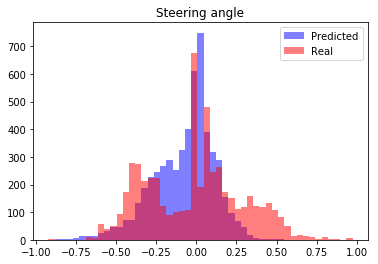
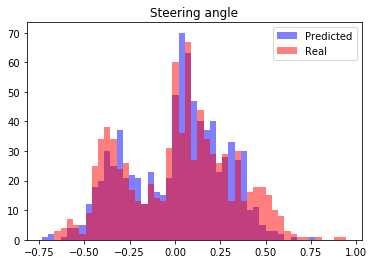
modified evaluation, added safety feature to train_val_split function

diff --git a/Code/model_eval.py b/Code/model_eval.py
@@ -135,11 +135,11 @@ def _main():
             )
     
     
-    model = utilities.jsonToModel('C:/Users/user/Desktop/BA/BA/ba-cnn-steering/model_DroNet/model_struct.json')
+    model = utilities.jsonToModel('C:/Users/user/Desktop/BA/BA/ba-cnn-steering/model_Carolo/model_struct.json')
     
     
     try:
-        model.load_weights('C:/Users/user/Desktop/BA/BA/ba-cnn-steering/model_DroNet/best_weights.h5')
+        model.load_weights('C:/Users/user/Desktop/BA/BA/ba-cnn-steering/model_Test/weights_197.h5')
         #print("Loaded model from {}".format(weights_load_path))
     except:
         print("Impossible to find weight path. Returning untrained model")
@@ -160,33 +160,29 @@ def _main():
     real_steerings = []
     predicted_steerings = []
     
-    
-    
-#    DroNet yields negative values for right turn and positive for left turn.
-#    For Carolo its the other way round.
-#    So Carolo Values have to be adjusted for that.
+    #Left/Right shift for Positive/Neagtive Values done while loading the images
     for data in ground_truth:
-        real_steerings.append(utilities.switch_sign(data[0]))
-    for i,data in enumerate(predictions):
-        predicted_steerings.append(data[0])
-        pred_truth_compare.append("%s|||%s" % (data[0],real_steerings[i]))
+        real_steerings.append(data[0])
+    #for i,data in enumerate(predictions):
+    #    predicted_steerings.append(data[0])
+     #   pred_truth_compare.append("%s|||%s" % (data[0],real_steerings[i]))
         
         
     joined = "\n".join(pred_truth_compare)
     #print(AlleTupel)
     
-    plot_evaluation.make_and_save_histograms(predicted_steerings,real_steerings)
+    plot_evaluation.make_and_save_histograms(predictions,real_steerings)
     
-    f = open("C:/Users/user/Desktop/BA/BA/test_compare.txt", "w")
-    f.write(joined)
-    f.close() 
+    #f = open("C:/Users/user/Desktop/BA/BA/test_compare.txt", "w")
+    #f.write(joined)
+    #f.close() 
 
     
     ###########################################################################
 
     # ************************* Steering evaluation ***************************
 
-    predicted_steerings = np.asarray(predicted_steerings, dtype=np.float32)
+    predicted_steerings = np.asarray(predictions, dtype=np.float32)
     real_steerings = np.asarray(real_steerings, dtype=np.float32)
 
 

diff --git a/Code/preprocessing/flip_images.py b/Code/preprocessing/flip_images.py
@@ -72,10 +72,18 @@ def plot_steering_angle_distribution(steering_file, sample_count):
     sns.distplot(steering_values,kde=False) 
 
 
-def super_dirty_val_train_split(image_path,copy_path,sample_count):
+def val_train_split(image_path,copy_path,sample_count):
     """
     This will be deleted as sone as it has done what it should.
     """
+    print("!WARNING!", "This will delete images from ", image_path, "!")
+    check = input("If you are sure about this, type 'yes' and press Enter.\ny")
+    if(check != "yes"):
+        print("Stopped!")
+        return
+    elif(check == "yes"):
+        print("Alright.")
+    
     images = os.listdir(image_path)
     
     validation_ratio = 0.2
@@ -85,7 +93,7 @@ def super_dirty_val_train_split(image_path,copy_path,sample_count):
     
     s = set()
     
-    n = validation_count +100
+    n = validation_count 
     
     while n>0:
         s.add(random.randrange(0,sample_count))
@@ -96,7 +104,6 @@ def super_dirty_val_train_split(image_path,copy_path,sample_count):
     print(len(l))
     list_index = 0
     for i,image in enumerate(images):
-        
         #print("for-index:",i," list-index:",list_index," list-value:",l[list_index])
         if i==l[list_index]:
             im_data = cv2.imread(os.path.join(image_path,image),0)
@@ -123,7 +130,7 @@ def main():
     #plot_steering_angle_distribution(os.path.join(steering_file,'steering_labels.txt'),6000)
     #flip_images(image_files,None)
     
-    super_dirty_val_train_split('../../../testData/caroloFullHistEqu','../../../testData/caroloFullHistEquVal',5829)
+    val_train_split('../../../caroloExperiment/images','../../../caroloExperiment/RANDOM',5391)
     
     
 

diff --git a/Code/carolo_cnn.py b/Code/carolo_cnn.py
@@ -13,7 +13,7 @@ import os
 from keras.callbacks import ModelCheckpoint
 from keras import optimizers
 
-from Code import utilities, constants,adapted_dronet_model,custom_callback
+from Code import utilities, constants,adapted_dronet_model,custom_callback,plot_evaluation
 
 from tensorflow.python.client import device_lib
 
@@ -93,7 +93,7 @@ def trainModel(train_data_generator, val_data_generator, model, initial_epoch):
     # Save model every 'log_rate' epochs.
     # Save training and validation losses.
     
-    #logz.configure_output_dir(constants.EXPERIMENT_DIRECTORY)
+   
     saveModelAndLoss = custom_callback.MyCallback(filepath=constants.EXPERIMENT_DIRECTORY,
                                             period=10,
                                             batch_size=constants.BATCH_SIZE)
@@ -102,13 +102,16 @@ def trainModel(train_data_generator, val_data_generator, model, initial_epoch):
     steps_per_epoch = int(np.ceil(train_data_generator.samples / constants.BATCH_SIZE))
     validation_steps = int(np.ceil(val_data_generator.samples / constants.BATCH_SIZE))
 
-    model.fit_generator(train_data_generator,
+    history = model.fit_generator(train_data_generator,
                         epochs=constants.EPOCHS150, steps_per_epoch = steps_per_epoch,
                         callbacks=[writeBestModel,saveModelAndLoss],
                         validation_data=val_data_generator,
                         validation_steps = validation_steps,
                         initial_epoch=initial_epoch)
     
+    print(history.history.keys())
+    plot_evaluation.plot_session_loss(history)
+    plot_evaluation.plot_session_accuracy(history)
 
     
 def main():

diff --git a/Code/plot_evaluation.py b/Code/plot_evaluation.py
@@ -32,4 +32,21 @@ def make_and_save_histograms(pred_steerings, real_steerings,
     plt.legend(fontsize=10)
     plt.savefig(img_name, bbox_inches='tight')
     
+
+def plot_session_loss(history):
+    plt.plot(history.history['loss'])
+    plt.plot(history.history['val_loss'])
+    plt.title('model loss')
+    plt.ylabel('loss')
+    plt.xlabel('epoch')
+    plt.legend(['train', 'test'], loc='upper left')
+    plt.show()
     
+def plot_session_accuracy(history):
+    plt.plot(history.history['acc'])
+    plt.plot(history.history['val_acc'])
+    plt.title('model accuracy')
+    plt.ylabel('accuracy')
+    plt.xlabel('epoch')
+    plt.legend(['train', 'test'], loc='upper left')
+    plt.show()

diff --git a/Code/constants.py b/Code/constants.py
@@ -9,7 +9,7 @@ Constants (Paths, values and configuratiions)
 
 #---------------------GENERAL PATHS----------------------
 
-EXPERIMENT_DIRECTORY = "../../carolo_experiment"
+EXPERIMENT_DIRECTORY = "../../caroloExperiment"
 
 TRAINING_DIRECTORY = "../../training"
 
